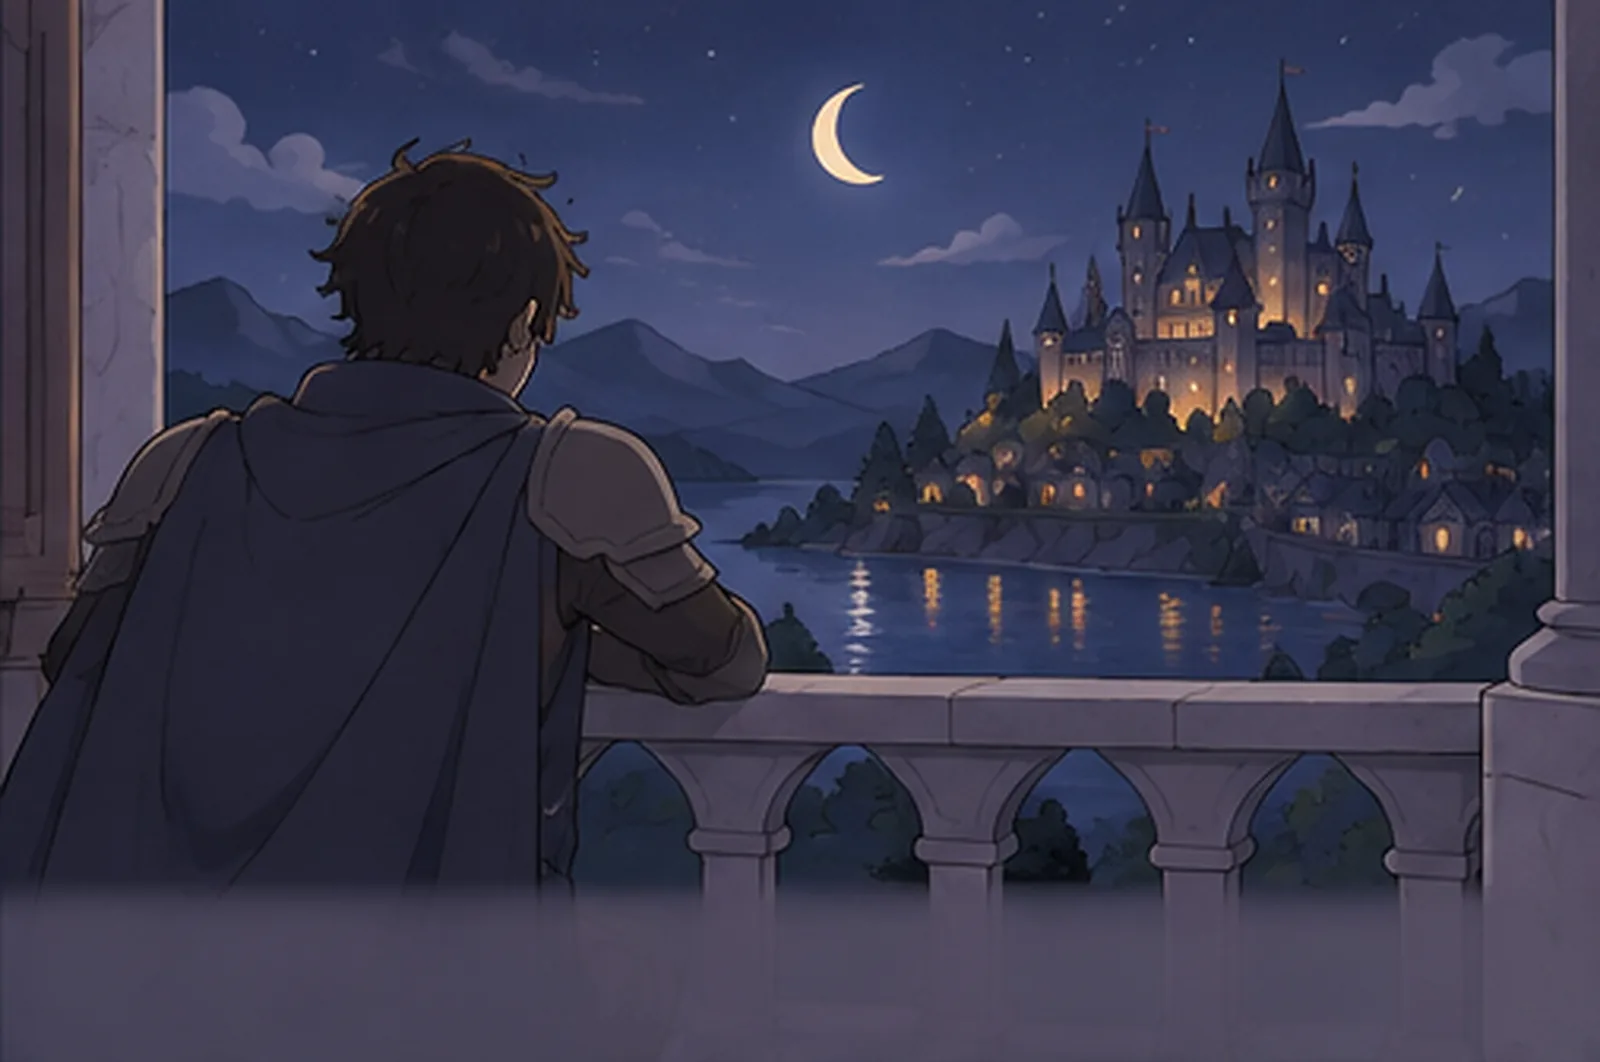
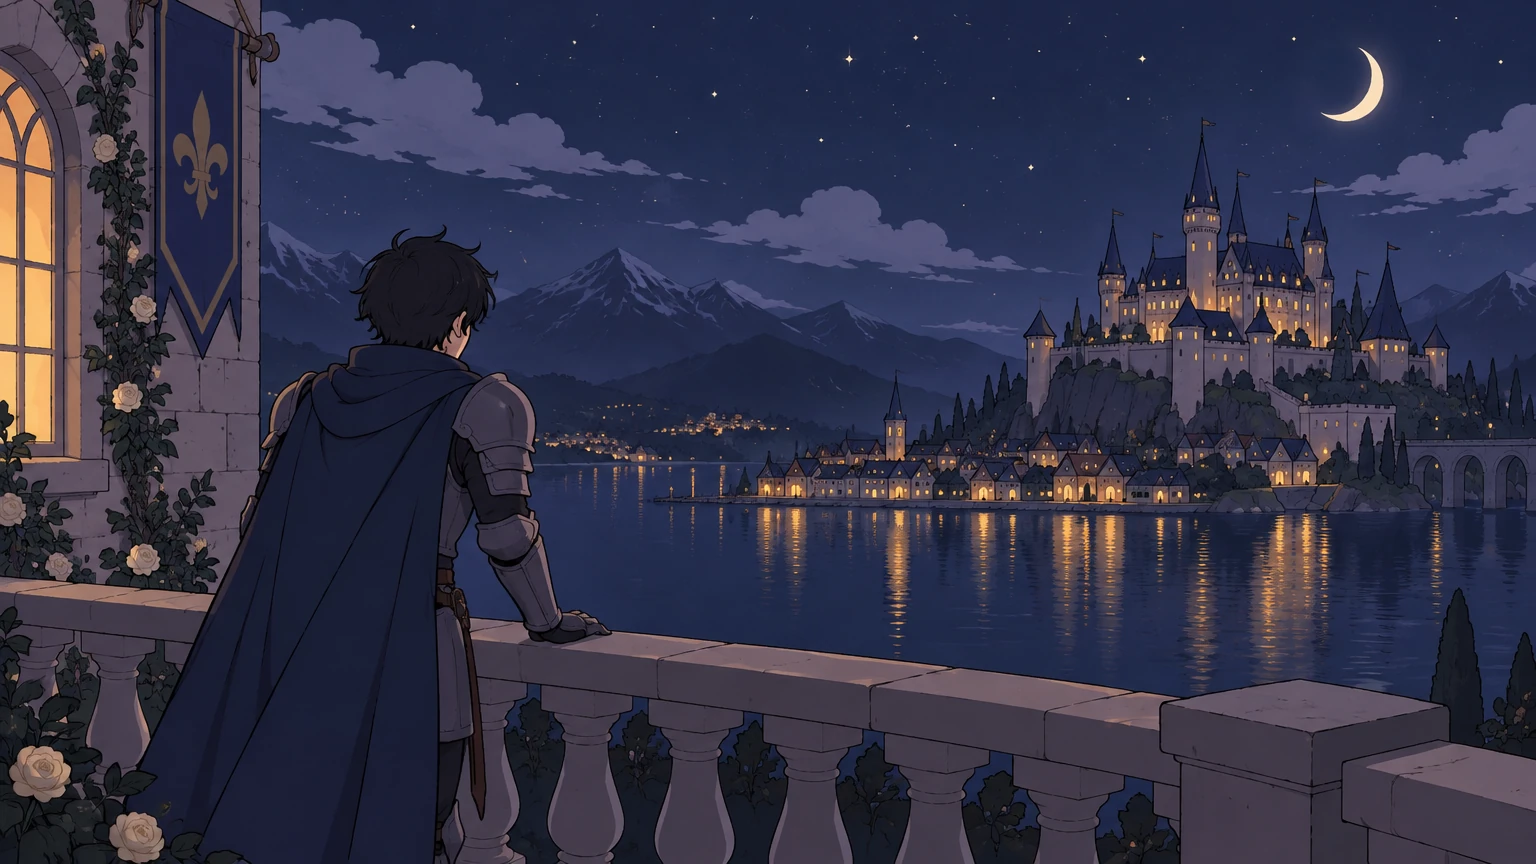
Cenas em resolução cheia e rainha vira princesa

diff --git a/js/historia.js b/js/historia.js
@@ -10,25 +10,25 @@ export const CONVITE = {
   local: '',                 // vazio aparece como "a combinar"
   traje: 'o divo vai de armadura',
   folhinha: { mes: 'Outubro', dia: '31', semana: 'Sábado' },
-  detalhes: 'Convite real do cavaleiro arrependido. Válido para uma única rainha, intransferível.',
+  detalhes: 'Convite real do cavaleiro arrependido. Válido para uma única princesa, intransferível.',
 };
 
 // Cada cena é uma arte. foco = ponto que importa (x%, y%), zoom = aproximação,
 // pan = de onde até onde a câmera passeia no celular em pé (x%).
 export const CENAS = {
-  '01-reino':     { foco: [60, 45], pan: [35, 75] },
-  '02-varanda':   { foco: [50, 40], pan: [25, 72] },
-  '03-chegada':   { foco: [50, 45], pan: [22, 72] },
+  '01-reino':     { foco: [62, 45], pan: [38, 82] },
+  '02-varanda':   { foco: [50, 40], pan: [20, 75] },
+  '03-chegada':   { foco: [50, 45], pan: [18, 82] },
   '04-ajoelhado': { foco: [50, 45], zoom: 1.2 },
   '05-perdao':    { foco: [50, 35] },
-  '06-rainha':    { foco: [55, 40] },
+  '06-princesa':  { foco: [50, 40] },
   '07-acabado':   { foco: [50, 36], zoom: 1.35 },
   '08-escolha':   { foco: [50, 45], pan: [18, 85] },
-  '09-bolsinha':  { foco: [50, 40], pan: [22, 78] },
-  '10-entrega':   { foco: [50, 40], pan: [30, 75] },
+  '09-bolsinha':  { foco: [50, 40], pan: [25, 75] },
+  '10-entrega':   { foco: [50, 40], pan: [25, 82] },
   '11-olhinho':   { foco: [50, 35] },
   '12-cafe':      { foco: [50, 55] },
-  '14-final':     { foco: [50, 45], pan: [30, 70] },
+  '14-final':     { foco: [50, 45], pan: [28, 85] },
 };
 
 // tipos: narracao, fala, escolha, convite, agenda, fim
@@ -37,17 +37,17 @@ export const ROTEIRO = [
   { id: 'inicio', cena: '01-reino', tipo: 'narracao',
     texto: 'Nas terras distantes de Porto Alegre, onde a paz e a felicidade reinavam, tudo estava indo de forma formidável...' },
   { cena: '02-varanda', tipo: 'narracao',
-    texto: '...mas não para um cavaleiro que estava tentando se redimir com sua rainha.' },
+    texto: '...mas não para um cavaleiro que estava tentando se redimir com sua princesa.' },
   { cena: '03-chegada', tipo: 'narracao',
     texto: 'Após uma longa jornada atravessando um mar gigante batizado de Guaíba, ele finalmente chegou ao castelo...' },
   { cena: '04-ajoelhado', tipo: 'narracao',
-    texto: 'Diante de sua rainha, ele se ajoelhou.' },
+    texto: 'Diante de sua princesa, ele se ajoelhou.' },
   { cena: '05-perdao', tipo: 'fala', quem: 'Cavaleiro',
-    texto: 'Rainha, peço perdão pelas minhas lacrações. Não era minha intenção que isso a ofendesse...' },
-  { cena: '06-rainha', tipo: 'fala', quem: 'Rainha',
+    texto: 'Princesa, peço perdão pelas minhas lacrações. Não era minha intenção que isso a ofendesse...' },
+  { cena: '06-princesa', tipo: 'fala', quem: 'Princesa',
     texto: 'O divo realmente acha que isso será o suficiente, depois de todos os insultos?' },
   { cena: '07-acabado', tipo: 'fala', quem: 'Cavaleiro',
-    texto: 'Minha rainha, sei que fui um grande tolo ao usar vossas palavras contra vós. Peço que me perdoeis, prometo que jamais voltarei a lacrar.' },
+    texto: 'Minha princesa, sei que fui um grande tolo ao usar vossas palavras contra vós. Peço que me perdoeis, prometo que jamais voltarei a lacrar.' },
 
   { id: 'veredito', cena: '08-escolha', tipo: 'escolha',
     texto: 'O que você irá fazer?',
@@ -57,12 +57,12 @@ export const ROTEIRO = [
     ] },
 
   { id: 'expulso', cena: '07-acabado', tipo: 'fala', quem: 'Cavaleiro',
-    texto: 'Espera, majestade! Eu sei que mereço... mas pense em quantas risadas eu ainda posso te render. Me dá só mais uma chance?' },
+    texto: 'Espera, alteza! Eu sei que mereço... mas pense em quantas risadas eu ainda posso te render. Me dá só mais uma chance?' },
   { cena: '08-escolha', tipo: 'escolha',
     texto: 'O que você irá fazer?',
     opcoes: [{ texto: 'Perdoar o divo', ir: 'perdoado' }] },
 
-  { id: 'perdoado', cena: '09-bolsinha', tipo: 'fala', quem: 'Rainha',
+  { id: 'perdoado', cena: '09-bolsinha', tipo: 'fala', quem: 'Princesa',
     texto: 'Está perdoado, divo. Mas não pense que escapará tão facilmente da próxima vez.' },
   { cena: '09-bolsinha', tipo: 'fala', quem: 'Cavaleiro',
     texto: 'Sendo assim... tenho algo para você.' },

diff --git a/index.html b/index.html
@@ -6,9 +6,9 @@
   <meta name="theme-color" content="#15122B">
   <meta name="robots" content="noindex">
   <title>A Última Honra de um Cavaleiro</title>
-  <meta name="description" content="Uma pequena aventura feita para uma rainha.">
+  <meta name="description" content="Uma pequena aventura feita para uma princesa.">
   <meta property="og:title" content="A Última Honra de um Cavaleiro">
-  <meta property="og:description" content="Uma pequena aventura feita para uma rainha.">
+  <meta property="og:description" content="Uma pequena aventura feita para uma princesa.">
   <meta property="og:image" content="https://lucas-amaralz.github.io/a-ultima-honra/assets/img/capa.jpg">
   <meta property="og:type" content="website">
   <link rel="icon" href="assets/favicon.svg" type="image/svg+xml">
@@ -40,7 +40,7 @@
       <div class="pergaminho">
         <div class="selo" aria-hidden="true">♥</div>
         <h2>Convite Real</h2>
-        <p class="decreto">Por decreto do cavaleiro arrependido, Vossa Majestade está convocada para um café da tarde.</p>
+        <p class="decreto">Por decreto do cavaleiro arrependido, Vossa Alteza está convocada para um café da tarde.</p>
         <div class="detalhes">
           <div class="folhinha"><span class="mes"></span><span class="dia"></span><span class="semana"></span></div>
           <dl>
@@ -49,7 +49,7 @@
             <dt>Traje</dt><dd data-campo="traje"></dd>
           </dl>
         </div>
-        <p class="rodape">válido para uma única rainha · intransferível</p>
+        <p class="rodape">válido para uma única princesa · intransferível</p>
       </div>
       <div class="botoes">
         <button class="opcao" data-acao="aceitar">Sim</button>
@@ -76,7 +76,7 @@
     <div id="abertura">
       <div class="brasao" aria-hidden="true"></div>
       <h1><span>A Última Honra</span><small>de um Cavaleiro</small></h1>
-      <p class="subtitulo">uma pequena aventura feita para uma rainha</p>
+      <p class="subtitulo">uma pequena aventura feita para uma princesa</p>
       <button class="opcao comecar" disabled>Preparando o reino...</button>
       <p class="duracao">dura cerca de um minuto</p>
     </div>

diff --git a/tools/preparar-arte.py b/tools/preparar-arte.py
@@ -1,59 +1,26 @@
-"""Recorta as folhas do storyboard em cenas e gera as imagens do jogo (webp).
+"""Converte as cenas de arte-original/ nas imagens do jogo (webp) e gera a capa do link.
 
 Uso: python -I tools/preparar-arte.py  (rodar na raiz do projeto)
+Cada cena é um arquivo arte-original/cena-<nome>.png gerado sozinho em 1536x864.
 """
 from pathlib import Path
-from PIL import Image, ImageFilter
+from PIL import Image
 
 RAIZ = Path(__file__).resolve().parent.parent
 ORIG = RAIZ / "arte-original"
 SAIDA = RAIZ / "assets" / "img"
-LARGURA = 1600  # cenas pequenas sao ampliadas ate aqui
-
-# nome da cena: (arquivo, caixa de recorte (x0, y0, x1, y1) ou None pra imagem inteira)
-A = "folha-1-3x3.png"
-B = "folha-2-2x2.png"
-C = "folha-3-2x1.png"
-COLS_A, LINHAS_A = [(0, 508), (514, 1020), (1026, 1536)], [(0, 336), (342, 678), (684, 1024)]
-
-
-def celula_a(c, l):
-    return (COLS_A[c][0], LINHAS_A[l][0], COLS_A[c][1], LINHAS_A[l][1])
-
-
-CENAS = {
-    "01-reino": (A, celula_a(0, 0)),
-    "02-varanda": (A, celula_a(1, 0)),
-    "03-chegada": (A, celula_a(2, 0)),
-    "04-ajoelhado": ("cena-04-ajoelhado.png", None),
-    "05-perdao": (A, celula_a(1, 1)),
-    "06-rainha": (A, celula_a(2, 1)),
-    "07-acabado": ("cena-07-acabado.png", None),
-    "08-escolha": ("cena-08-escolha.png", None),
-    "09-bolsinha": (C, (0, 772, 1024, 1536)),
-    "10-entrega": (B, (770, 0, 1536, 466)),
-    "11-olhinho": (B, (0, 512, 766, 978)),
-    "12-cafe": (A, celula_a(1, 2)),
-    "14-final": (B, (770, 512, 1536, 978)),
-}
 
 
 def main():
     SAIDA.mkdir(parents=True, exist_ok=True)
-    for nome, (arquivo, caixa) in CENAS.items():
-        img = Image.open(ORIG / arquivo).convert("RGB")
-        if caixa:
-            img = img.crop(caixa)
-        if img.width < LARGURA:
-            altura = round(img.height * LARGURA / img.width)
-            img = img.resize((LARGURA, altura), Image.LANCZOS)
-            img = img.filter(ImageFilter.UnsharpMask(radius=1.6, percent=60, threshold=2))
+    for origem in sorted(ORIG.glob("cena-*.png")):
+        nome = origem.stem.removeprefix("cena-")
         destino = SAIDA / f"{nome}.webp"
-        img.save(destino, "WEBP", quality=82, method=6)
-        print(f"{nome}: {img.width}x{img.height}  {destino.stat().st_size // 1024} KB")
+        Image.open(origem).convert("RGB").save(destino, "WEBP", quality=90, method=6)
+        print(f"{nome}: {destino.stat().st_size // 1024} KB")
 
     # capa pra pré-visualização do link (WhatsApp, email)
-    capa = Image.open(SAIDA / "01-reino.webp").convert("RGB")
+    capa = Image.open(ORIG / "cena-01-reino.png").convert("RGB")
     altura = round(capa.width * 630 / 1200)
     topo = (capa.height - altura) // 3
     capa.crop((0, topo, capa.width, topo + altura)).resize((1200, 630), Image.LANCZOS).save(SAIDA / "capa.jpg", quality=85)
